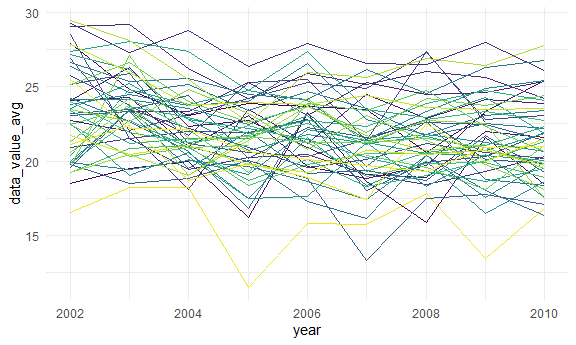
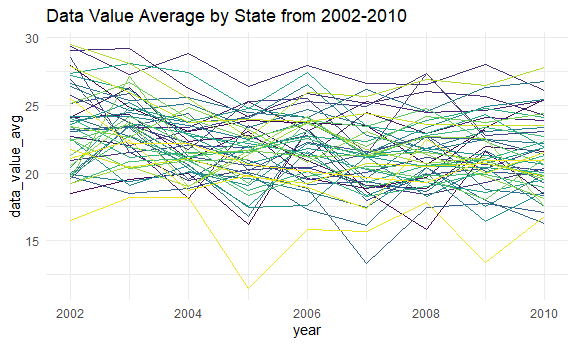
finishing problem 3 and finishing touches

diff --git a/p8105_hw3_cd3347.md b/p8105_hw3_cd3347.md
@@ -38,9 +38,9 @@ scale_colour_discrete = scale_color_viridis_d
 scale_fill_discrete = scale_fill_viridis_d
 ```
 
-### Problem 1
+# Problem 1
 
-Loading the instacart data:
+### Loading the instacart data:
 
 ``` r
 library(p8105.datasets)
@@ -57,8 +57,7 @@ information such as `product_name`, `aisle`, `department`, and
 `days_since_prior_order`. For example, the first row in the dataset is
 Bulgarian Yogurt in the dairy and eggs department in the yogurt aisle.
 
-How many aisles are there, and which aisles are the most items ordered
-from?
+### How many aisles are there, and which aisles are the most items ordered from?
 
 ``` r
 instacart %>% 
@@ -87,7 +86,7 @@ ordered from the fresh vegetables and fresh fruits aisles. These two
 aisles had nearly twice as many orders than the 3rd most ordered from
 aisle, which was packaged vegetables and fruits.
 
-Make a plot for `aisles`:
+### Make a plot for `aisles`:
 
 ``` r
 instacart %>% 
@@ -102,8 +101,7 @@ instacart %>%
 
 <img src="p8105_hw3_cd3347_files/figure-gfm/unnamed-chunk-3-1.png" width="90%" />
 
-Make a table showing the three most popular items in each of the aisles
-“baking ingredients”, “dog food care”, and “packaged vegetables fruits”:
+### Make a table showing the three most popular items in each of the aisles “baking ingredients”, “dog food care”, and “packaged vegetables fruits”:
 
 ``` r
 aisles_pop = 
@@ -135,8 +133,7 @@ aisles_pop =
 | packaged vegetables fruits | Organic Raspberries                           |   5546 |
 | packaged vegetables fruits | Organic Blueberries                           |   4966 |
 
-Table for hour of day Pink Lady Apples and Coffee Ice Cream are ordered
-for each day of the week:
+### Table for hour of day Pink Lady Apples and Coffee Ice Cream are ordered for each day of the week:
 
 ``` r
 apples_coffee = 
@@ -162,16 +159,16 @@ apples_coffee =
 | Coffee Ice Cream | 13.77419 | 14.31579 | 15.38095 | 15.31818 | 15.21739 | 12.26316 | 13.83333 |
 | Pink Lady Apples | 13.44118 | 11.36000 | 11.70213 | 14.25000 | 11.55172 | 12.78431 | 11.93750 |
 
-### Problem 2
+# Problem 2
 
-Loading the BRFSS data:
+### Loading the BRFSS data:
 
 ``` r
 library(p8105.datasets)
 data("brfss_smart2010")
 ```
 
-Data cleaning:
+### Data cleaning:
 
 ``` r
 brfss_clean = 
@@ -184,8 +181,7 @@ brfss_clean =
   mutate(response = factor(response, levels = c("Poor", "Fair", "Good", "Very good", "Excellent")))
 ```
 
-In 2002, which states were observed at 7 or more locations? What about
-in 2010?
+### In 2002, which states were observed at 7 or more locations? What about in 2010?
 
 ``` r
 locations2002 = 
@@ -211,7 +207,7 @@ observed at 7 or more locations.
 In 2010, CT, FL, MA, NC, NJ, and PA were observed at 7 or more
 locations.
 
-Spaghetti plot:
+### Spaghetti plot:
 
 Modifying the data
 
@@ -232,7 +228,8 @@ Make the spaghetti plot:
 excellent %>% 
   ggplot(aes(x = year, y = data_value_avg, group = state, color = state)) +  
   geom_line() + 
-  theme(legend.position = "none")
+  theme(legend.position = "none") + 
+  labs(title = "Data Value Average by State from 2002-2010")
 ```
 
     ## Warning: Removed 3 rows containing missing values (`geom_line()`).
@@ -245,7 +242,7 @@ around 17 to 29 for the years from 2002 to 2010. There are a couple
 outliers with a particularly low data value average, but otherwise, most
 states are consistent with each other and over time.
 
-Make the two-panel plot
+### Make the two-panel plot
 
 For 2006:
 
@@ -255,7 +252,7 @@ data_value2006 =
     filter(year == 2006 & state == "NY") %>% 
     ggplot(aes(x = response, y = data_value)) + 
     geom_boxplot() + 
-    labs(title = "2006")
+    labs(title = "Data Values for Response Levels 2006")
 ```
 
 For 2010:
@@ -266,7 +263,7 @@ data_value2010 =
     filter(year == 2010 & state == "NY") %>% 
     ggplot(aes(x = response, y = data_value)) + 
     geom_boxplot() + 
-    labs(title = "2010")
+    labs(title = "Data Values for Response Levels 2010")
 ```
 
 Now patch them together:
@@ -282,9 +279,9 @@ From this plot, we can see that the data value for responses “Good” and
 a value of 3. Generally, it looks like a slightly left skewed
 distribution for both 2006 and 2010.
 
-### Problem 3
+# Problem 3
 
-Load the datasets:
+### Load the datasets:
 
 ``` r
 nhanes_accel = 
@@ -313,7 +310,7 @@ nhanes_covar =
     ## ℹ Use `spec()` to retrieve the full column specification for this data.
     ## ℹ Specify the column types or set `show_col_types = FALSE` to quiet this message.
 
-Merge the datasets and tidy data:
+### Merge the datasets and tidy data:
 
 ``` r
 nhanes_combined = 
@@ -326,7 +323,7 @@ nhanes_combined =
   mutate(education = as.factor(education))
 ```
 
-Table for men and women in each education category:
+### Table and plot for men and women in each education category:
 
 ``` r
 sex_education = 
@@ -352,6 +349,16 @@ sex_education =
 | male   |   27 |  35 |   56 |
 | female |   28 |  23 |   59 |
 
+Age distributions for men and women:
+
+``` r
+sex_age = 
+  nhanes_combined %>% 
+  ggplot(aes(x = education, y = age, fill = sex)) + 
+  geom_boxplot(alpha = 0.5) + 
+  labs(title = "Distribution of Age by Sex and Education Level")
+```
+
 This table tells us the number of men and women in each education
 category. From the data, we can see that there are about the same number
 of men and women who have a less than HS education level and more than
@@ -359,7 +366,7 @@ HS level. There are 12 more women who have an equal to HS education than
 men. Overall, more participants have a greater than HS education than a
 less than or equal to HS education.
 
-Aggregate activity plots:
+### Aggregate activity plots:
 
 ``` r
 nhanes_combined %>% 
@@ -368,14 +375,27 @@ nhanes_combined %>%
   ggplot(aes(x = age, y = total_act, group = sex, color = sex)) + 
   geom_point(alpha = 0.5) + 
   facet_grid(. ~ education) + 
-  geom_smooth(se = FALSE)
+  geom_smooth(se = FALSE) + 
+  labs(title = "Total Activity Level Based on Age and Education")
 ```
 
     ## `geom_smooth()` using method = 'loess' and formula = 'y ~ x'
 
-<img src="p8105_hw3_cd3347_files/figure-gfm/unnamed-chunk-19-1.png" width="90%" />
+<img src="p8105_hw3_cd3347_files/figure-gfm/unnamed-chunk-20-1.png" width="90%" />
 
-Activity over the course of a day plot:
+In this plot, we see how total activity level in minutse changes based
+on age and education level. For those with a less than HS education,
+younger people generally have a higher activity level than those with a
+equivalent to HS education and those with a greater than HS education.
+Activity levels trends based on age are similar between males and
+females with a less than HS education level. For those with a HS
+equivalent education level, females and males at age 21 have similar
+activity levels, but as participants get older, the females have higher
+activity levels until about age 60, when they again meet with the males’
+activity levels. For those with a greater than HS education, females
+have slightly higher activity levels than males across all ages.
+
+### Activity over the course of a day plot:
 
 ``` r
 nhanes_combined %>% 
@@ -385,8 +405,26 @@ nhanes_combined %>%
     values_to = "minutes"
   ) %>% 
   ggplot(aes(x = min_count, y = minutes, group = sex, color = sex)) + 
-  geom_point(alpha = 0.5) + 
-  facet_grid(. ~ education)
+  geom_point(alpha = 0.3) + 
+  geom_smooth(se = FALSE) + 
+  facet_grid(. ~ education) + 
+  labs(title = "Activity over 24 hrs Based on Sex and Education level",
+       x = "24 hour period") + 
+  theme(axis.text.x = element_blank())
 ```
 
-<img src="p8105_hw3_cd3347_files/figure-gfm/unnamed-chunk-20-1.png" width="90%" />
+    ## `geom_smooth()` using method = 'gam' and formula = 'y ~ s(x, bs = "cs")'
+
+<img src="p8105_hw3_cd3347_files/figure-gfm/unnamed-chunk-21-1.png" width="90%" />
+
+This graph shows activity levels in minutes over the course of the 24
+hour period participants were measured through by education level. In
+general, participants were more active for the first half of their
+24-hour period, and then activity dipped briefly before going back up
+again for the remainder. Those with a less than HS education and an
+equivalent to HS education had similar 24-hour activity time courses,
+and males and females seemed to be pretty similar. For those with a more
+than HS education, there were more outliers with higher activity levels
+(more males earlier in the 24-hour perido and more females later in the
+24-hour period). However, the aggregate curves shown seemed to be
+uniform with the other education levels.
